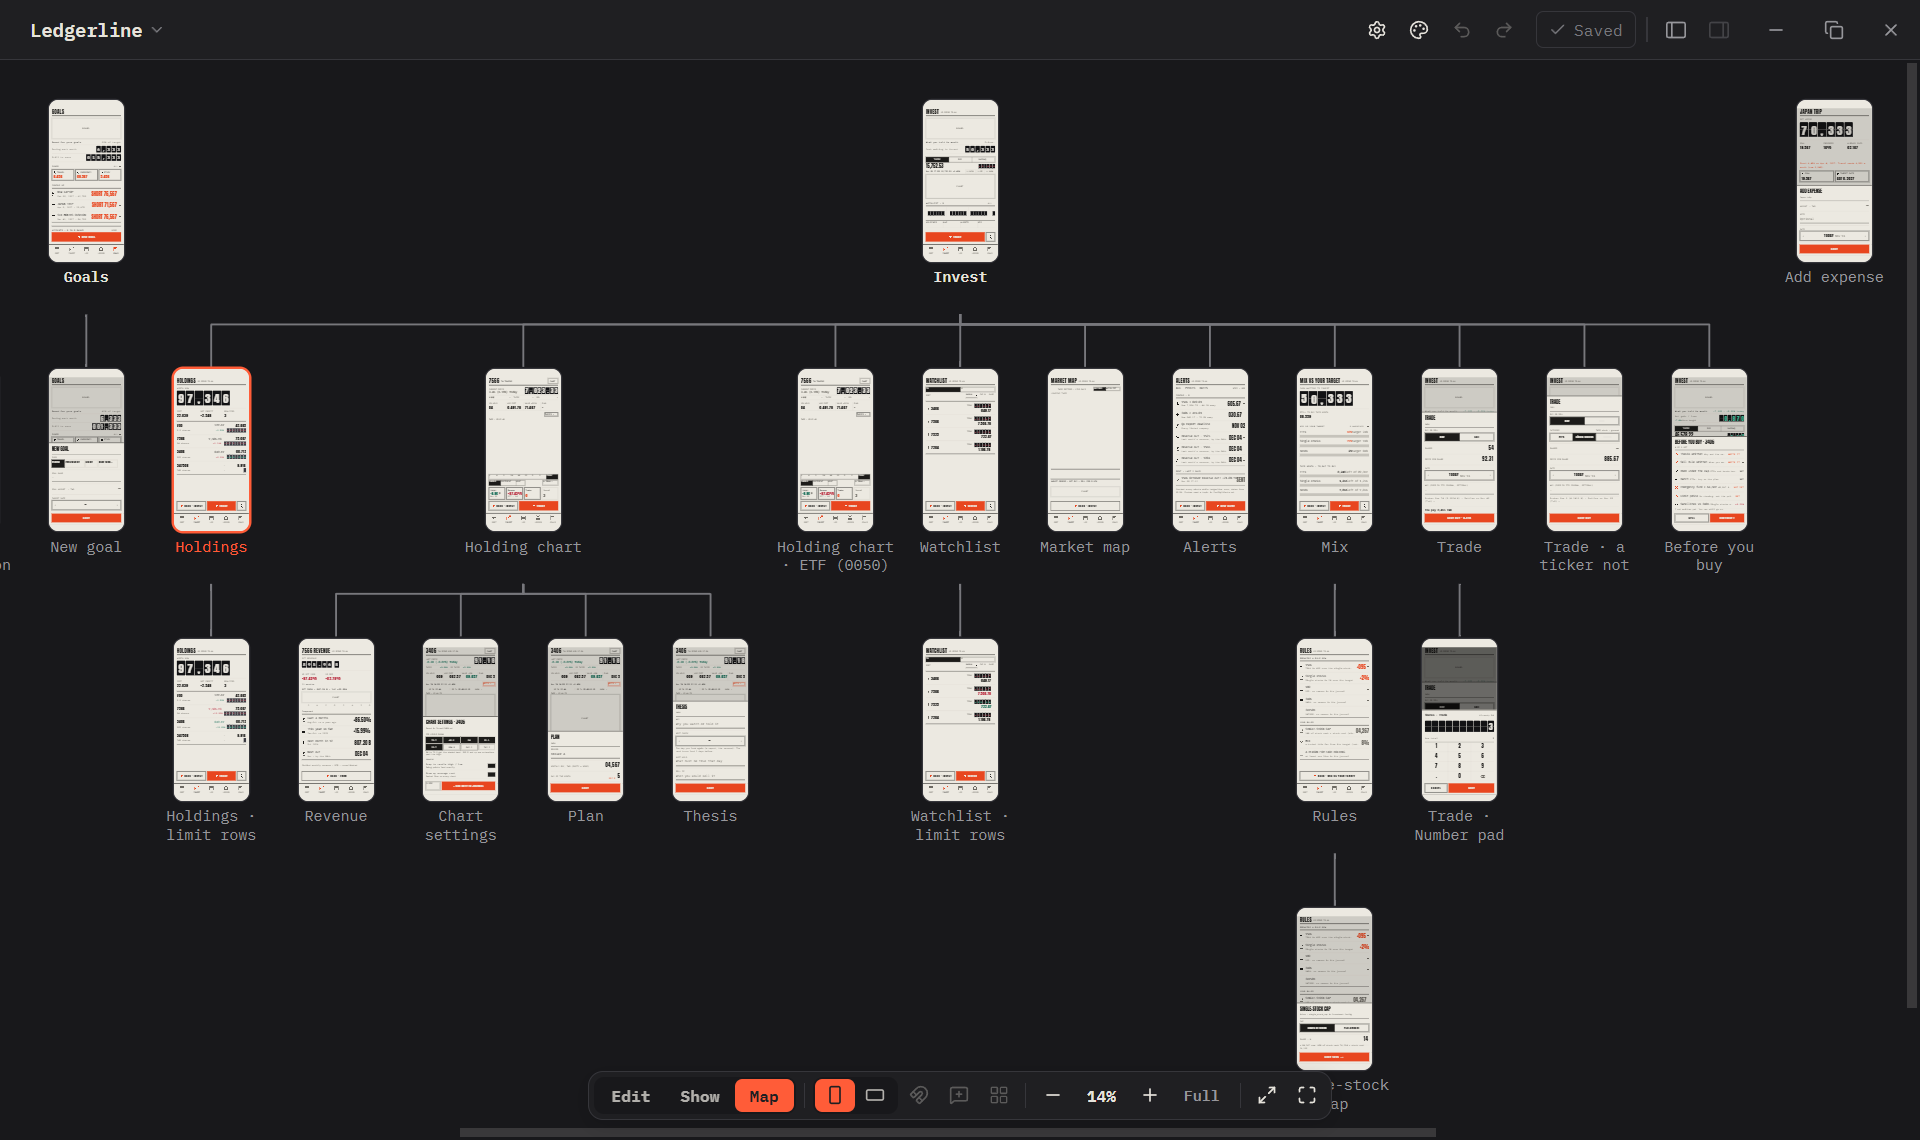
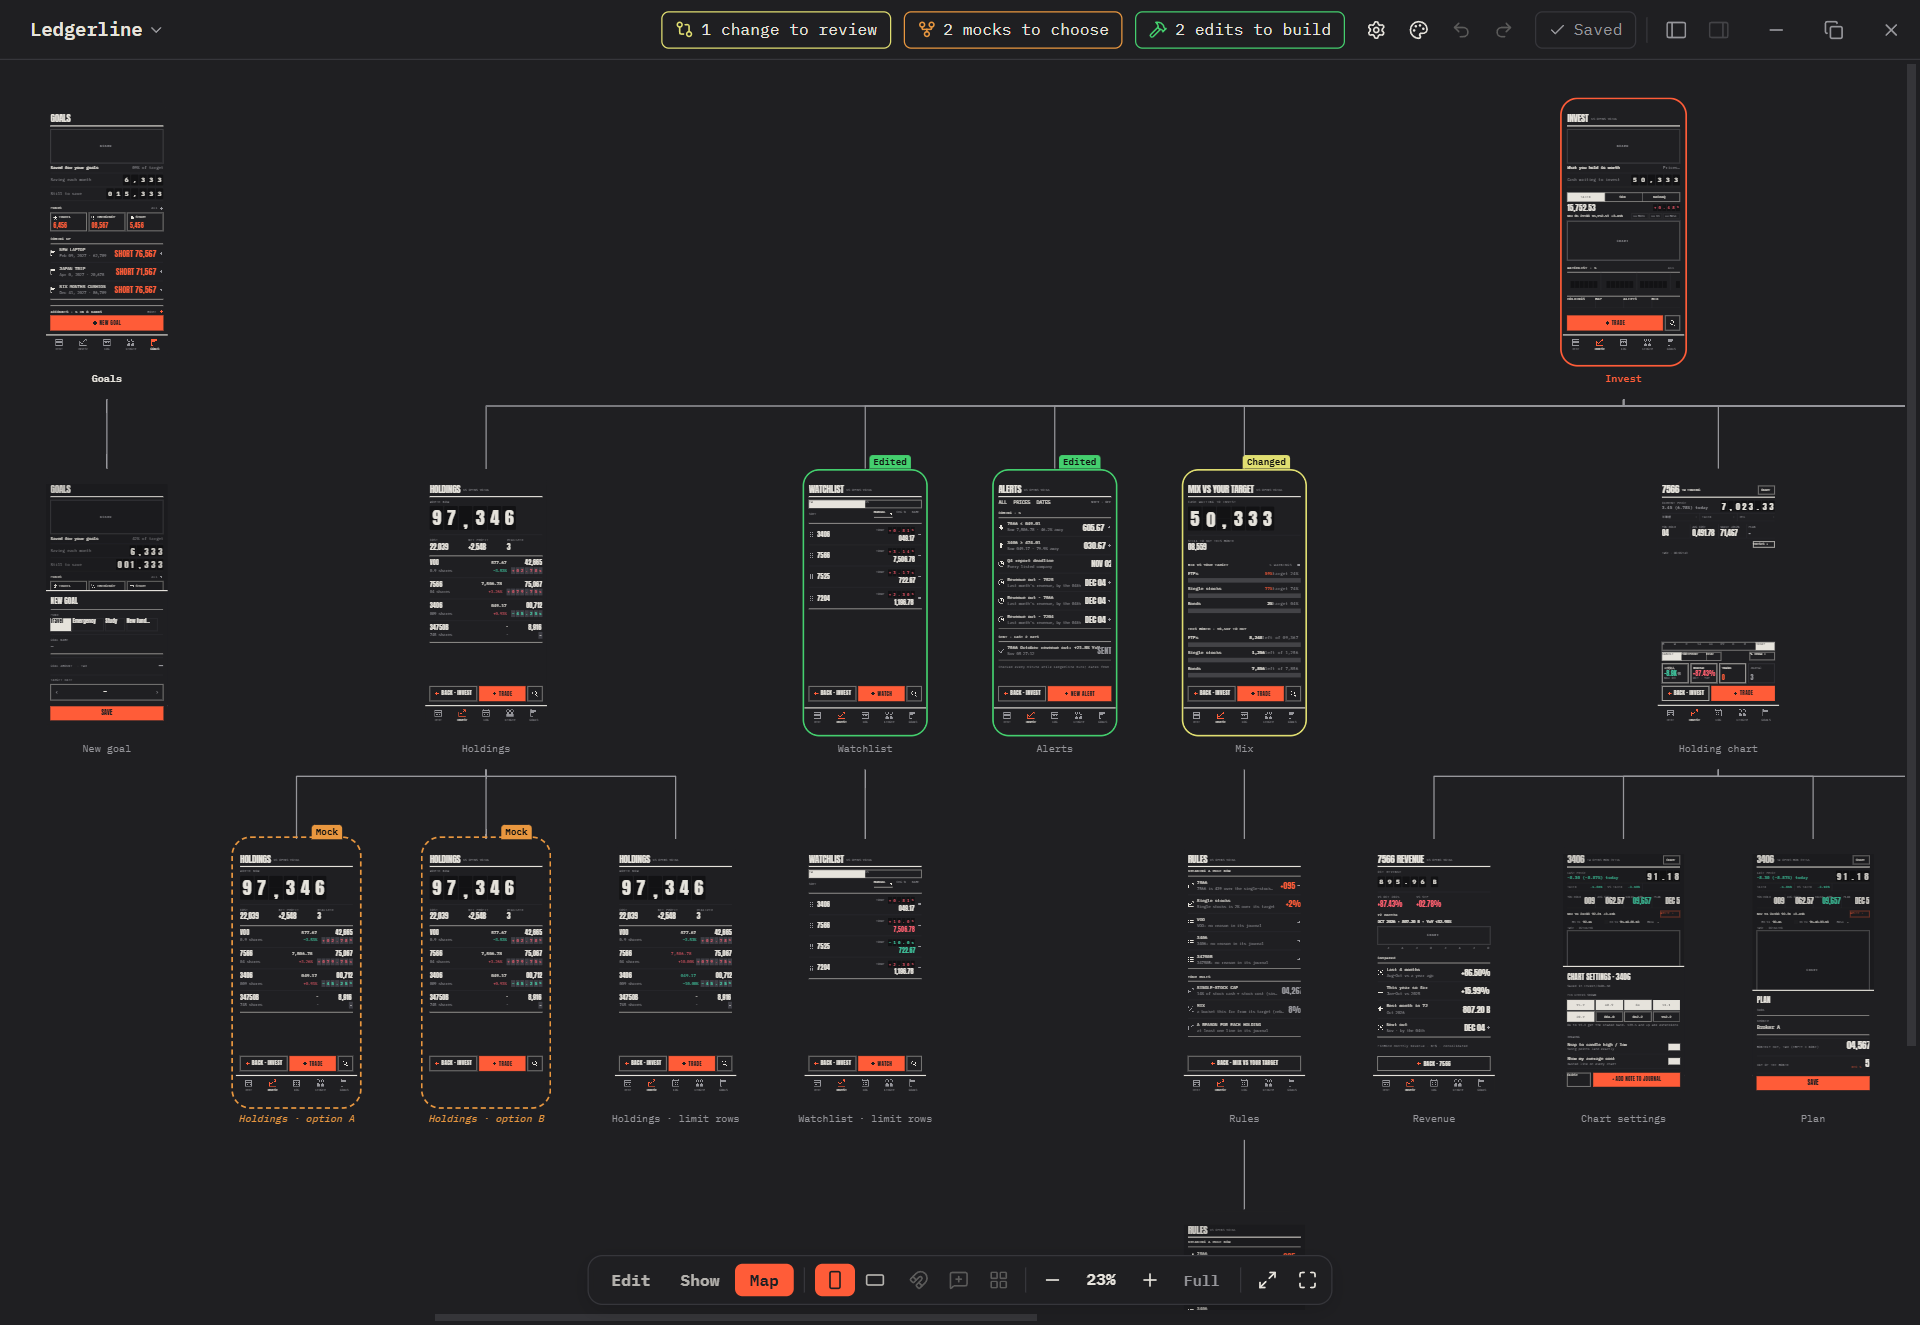
docs: both ways of working with the agent, in the guide and the README (#128)

diff --git a/README.md b/README.md
@@ -96,7 +96,7 @@ Colours, fonts and icons come from your Obsidian theme, so a plugin's mockup alr
 
 ### See the whole app
 
-<p align="center"><img src="assets/map.png" alt="The map: the Invest screen and the screens it opens, two rows down, as a tree"><br><sub><b>Map</b>: every screen as a tree, joined by how you get there; a click opens one</sub></p>
+<p align="center"><img src="assets/map.png" alt="The map: the Invest screen and the screens it opens as a tree; two Holdings options tagged Mock, Mix tagged Changed, Watchlist and Alerts tagged Edited"><br><sub><b>Map</b>: every screen as a tree, joined by how you get there; tags show mocks, the agent's changes and your edits; a click opens one</sub></p>
 
 - <img src="assets/icons/h/map.svg" width="11" height="13" alt=""> **Map and Show**: the screens as a tree, or one at a time as a preview with <kbd>←</kbd> <kbd>→</kbd> to the next.
 - <img src="assets/icons/h/frames.svg" width="12" height="13" alt=""> **Frames**: screens share a layout and store only what they change.
@@ -121,15 +121,19 @@ Want sample screens? Copy [`examples/Vellum Demo.md`](examples/Vellum%20Demo.md)
 
 Vellum is built for working with a coding agent: you and the agent edit the same files. Any agent that reads and writes files works (Claude Code, Codex, Cursor); no plugin API, no server.
 
-<table>
-  <tr>
-    <td width="20%" align="center" valign="top"><img src="assets/icons/robot.svg" width="32" height="32" alt=""><br><b>1 · Draft</b><br><sub>The agent writes the screens, one file each, linked into a flow</sub></td>
-    <td width="20%" align="center" valign="top"><img src="assets/icons/copy.svg" width="32" height="32" alt=""><br><b>2 · Point</b><br><sub>You choose a block, <b>Copy reference</b>, say what to change</sub></td>
-    <td width="20%" align="center" valign="top"><img src="assets/icons/marks.svg" width="32" height="32" alt=""><br><b>3 · Mark</b><br><sub>Or pin a note on the screen; the agent answers with its own</sub></td>
-    <td width="20%" align="center" valign="top"><img src="assets/icons/review.svg" width="32" height="32" alt=""><br><b>4 · Review</b><br><sub>Its change shows <b>Changed</b>: hold <kbd>B</kbd>, then <b>Keep</b> or <b>Undo</b></sub></td>
-    <td width="20%" align="center" valign="top"><img src="assets/icons/braces.svg" width="32" height="32" alt=""><br><b>5 · Build</b><br><sub>It builds from the screens you kept, and your own edits: <b>N edits to build</b></sub></td>
-  </tr>
-</table>
+Changes go both ways, and each way waits for the other side:
+
+```mermaid
+flowchart LR
+    D["Agent drafts the screens"] --> V["You, in Vellum"]
+    V -- "Copy reference or a mark:<br>what to change" --> C["Agent changes a screen"]
+    C -- "Changed: hold B,<br>then Keep or Undo" --> V
+    V -- "you edit and save:<br>Edited" --> B["Agent builds the app"]
+    B -- "deletes the _edited copy" --> V
+```
+
+- **The agent changes, you review.** Choose a block, **Copy reference**, say what to change (or pin a note on the screen). The screen it changes shows **Changed**: hold <kbd>B</kbd> to see it as it was, then **Keep** or **Undo**.
+- **You edit, the agent builds.** Move and restyle screens by hand and save: they show **Edited**. Click **N edits to build** to copy what changed, paste it to the agent and say "build it".
 
 <p align="center"><img src="assets/agent.png" alt="1: Copy reference on the Dock block, its hint showing. 2: the reference pasted into Claude Code with what to change, a one-line reply, the next request typed. 3: the Dock on the phone, its search button now solid ink"><br><sub><b>1</b> Copy reference on a block, <b>2</b> paste it to the agent with what to change, <b>3</b> the block on the phone changes with its file.</sub></p>
 

diff --git a/docs/for-agents.md b/docs/for-agents.md
@@ -5,7 +5,18 @@ vault; they edit them on a phone frame in Obsidian, you read and write the same 
 the [Field reference](../README.md#-file-format).
 
 ## The workflow
-Design and code meet in the same files. One round goes like this:
+Design and code meet in the same files, and changes go both ways. Each way leaves a copy of the screen as it was, so
+Vellum can show what changed and nothing is lost:
+
+| | Your change to a screen | The user's edit to a screen |
+| :--- | :--- | :--- |
+| **Who** | You write the screen's file | The user changes it in Vellum and saves |
+| **The copy** | You copy the screen to `_before/` first (section 3) | Vellum copies it to `_edited/` by itself |
+| **Vellum shows** | **Changed**, "N changes to review" | **Edited**, "N edits to build" |
+| **Then** | The user keeps it (the copy goes) or undoes it (the copy comes back) | You build it in the code and delete the copy (section 8) |
+
+So "change the screen" is your change, reviewed by the user; "build my edits" is theirs, built by you. One round goes
+like this:
 
 1. **Frame first.** Find or make the app's folder (section 1), set its device and colours in `_doc.json` (section 2).
 2. **Draft the screens.** One JSON file per screen, one item per part (section 5), each block named. Link them with
@@ -17,9 +28,9 @@ Design and code meet in the same files. One round goes like this:
    mark points at. Options are mock sub screens (section 3); a change to a real screen waits for review (`_before/`,
    section 3). Answer marks with marks of your own (section 6).
 5. **The user keeps or undoes** each change in the Map, keeps one option, and you delete the other options.
-6. **Build from the screens** (section 8) once the user says a screen is ready. When they ask you to build their
-   edits, the screens they changed since the last build each have a copy in `_edited/` (section 8, Edits to build). Ask before building a screen that
-   still has open marks, mock options, or a change waiting for review (its copy in `_before/`).
+6. **Build from the screens** (section 8) once the user says a screen is ready, or when they ask you to build their
+   edits: every screen they changed since the last build has a copy in `_edited/` (section 8, Edits to build). Ask
+   before building a screen that still has open marks, mock options, or a change waiting for review (`_before/`).
 7. **Keep them in step.** When the built app changes, change its screens too, so the next round starts from what is
    real.
 
@@ -250,6 +261,8 @@ ask you to change that one thing. They can only do that to a part that is **its 
 - **`parent` and `link` are navigation**: a child screen opens from its parent, the `link` says how (a tap on a row,
   a tab).
 - `mock` screens, drafts (blocks outside the screen), marks, `_before/` and `_edited/` copies are never built.
+- When the code can't do something a screen shows, or needs a choice the screen leaves open, leave a `blue` or
+  `orange` mark on the screen saying so, rather than guessing.
 
 ### Edits to build: what the user changed since the last build
 When the user saves a change to a screen in Vellum, Vellum copies the screen as it was into `_edited/<its file name>`
@@ -266,8 +279,6 @@ the user's edits (or "read my Vellum edits"):
 - Once a screen is built, delete its copy (only that file). Vellum clears the mark. Leave a copy you didn't build, and
   say why.
 - Never edit a copy, and never treat one as a screen. Your own changes to screens still go through `_before/`.
-- When the code can't do something a screen shows, or needs a choice the screen leaves open, leave a `blue` or
-  `orange` mark on the screen saying so, rather than guessing.
 
 ## 9. Before you finish
 Check each screen you wrote:

diff --git a/README.zh-TW.md b/README.zh-TW.md
@@ -96,7 +96,7 @@
 
 ### 檢視整個 app
 
-<p align="center"><img src="assets/map.png" alt="地圖：Invest 畫面與其開啟的畫面，往下兩層，以樹狀顯示"><br><sub><b>地圖</b>：所有畫面以樹狀顯示並標示進入方式，點選即開啟</sub></p>
+<p align="center"><img src="assets/map.png" alt="地圖：Invest 畫面與其開啟的畫面以樹狀顯示；兩個 Holdings 選項標為 Mock，Mix 標為 Changed，Watchlist 與 Alerts 標為 Edited"><br><sub><b>地圖</b>：所有畫面以樹狀顯示並標示進入方式；標籤顯示 mock、agent 的變更與你的編輯；點選即開啟</sub></p>
 
 - <img src="assets/icons/h/map.svg" width="11" height="13" alt=""> **Map 與 Show**：以樹狀檢視所有畫面，或逐一預覽，以 <kbd>←</kbd> <kbd>→</kbd> 切換
 - <img src="assets/icons/h/frames.svg" width="12" height="13" alt=""> **共用版型**：多個畫面共用同一版型，各畫面僅儲存修改的部分
@@ -121,15 +121,19 @@
 
 Vellum 為與 coding agent 協作而設計：你與 agent 修改同一批檔案。可讀寫檔案的 agent 皆可使用（Claude Code、Codex、Cursor），不需外掛 API 或伺服器。
 
-<table>
-  <tr>
-    <td width="20%" align="center" valign="top"><img src="assets/icons/robot.svg" width="32" height="32" alt=""><br><b>1 · 草稿</b><br><sub>agent 寫出畫面，每個畫面一個檔案，串成流程</sub></td>
-    <td width="20%" align="center" valign="top"><img src="assets/icons/copy.svg" width="32" height="32" alt=""><br><b>2 · 指定</b><br><sub>選取 block，按 <b>Copy reference</b>，說明要改的地方</sub></td>
-    <td width="20%" align="center" valign="top"><img src="assets/icons/marks.svg" width="32" height="32" alt=""><br><b>3 · 標註</b><br><sub>或在畫面上釘註記；agent 也以標註回覆</sub></td>
-    <td width="20%" align="center" valign="top"><img src="assets/icons/review.svg" width="32" height="32" alt=""><br><b>4 · 確認</b><br><sub>修改過的畫面標示 <b>Changed</b>：按住 <kbd>B</kbd>，再選 <b>Keep</b> 或 <b>Undo</b></sub></td>
-    <td width="20%" align="center" valign="top"><img src="assets/icons/braces.svg" width="32" height="32" alt=""><br><b>5 · 實作</b><br><sub>依保留的畫面與你自己的修改實作：<b>N edits to build</b></sub></td>
-  </tr>
-</table>
+修改是雙向的，每個方向都等另一方處理：
+
+```mermaid
+flowchart LR
+    D["agent 產生畫面草稿"] --> V["你，在 Vellum 中"]
+    V -- "Copy reference 或標註：<br>要改的地方" --> C["agent 修改畫面"]
+    C -- "Changed：按住 B，<br>再選 Keep 或 Undo" --> V
+    V -- "你修改並儲存：<br>Edited" --> B["agent 實作 app"]
+    B -- "刪除 _edited 副本" --> V
+```
+
+- **agent 修改，你確認。** 選取 block，按 **Copy reference**，說明要改的地方（或在畫面上釘註記）。agent 修改過的畫面標示 **Changed**：按住 <kbd>B</kbd> 檢視修改前，再選 **Keep** 或 **Undo**。
+- **你修改，agent 實作。** 親手移動、調整畫面並儲存，畫面標示 **Edited**。按 **N edits to build** 複製修改內容，貼給 agent 並說「實作」。
 
 <p align="center"><img src="assets/agent.png" alt="1：對 Dock block 按 Copy reference，顯示提示。2：參照貼到 Claude Code 並說明要改的地方，一行回覆，下一個要求已輸入。3：手機上的 Dock，搜尋按鈕已改為實心墨色"><br><sub><b>1</b> 對 block 按 Copy reference，<b>2</b> 貼給 agent 並說明要改的地方，<b>3</b> 檔案修改後手機上的 block 隨即更新。</sub></p>
 
